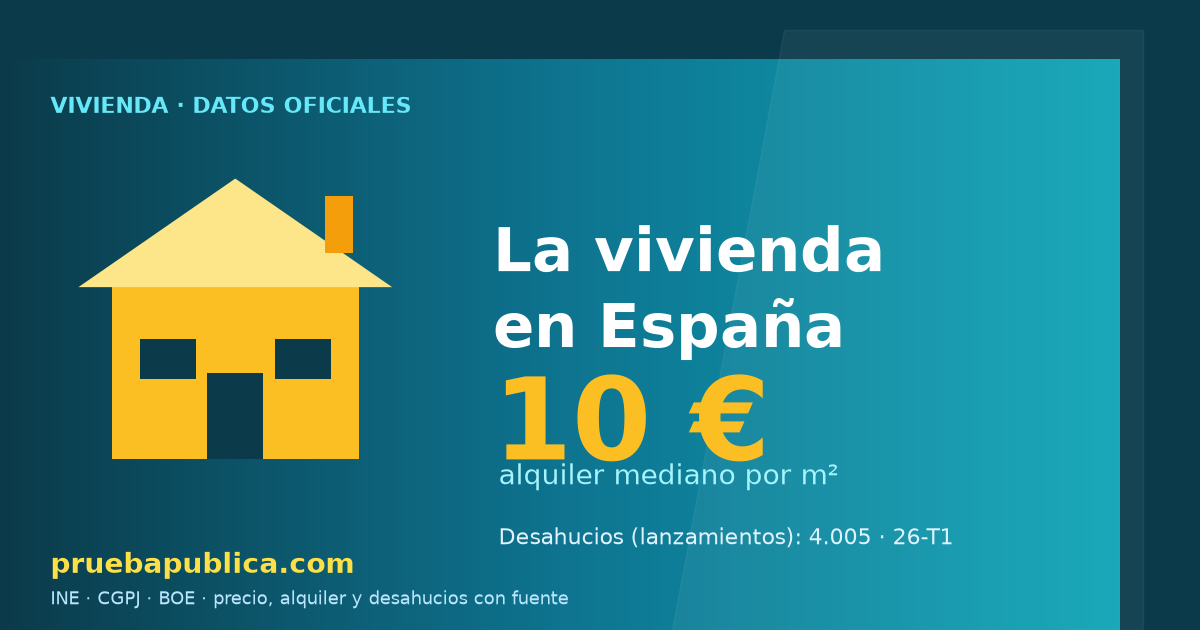
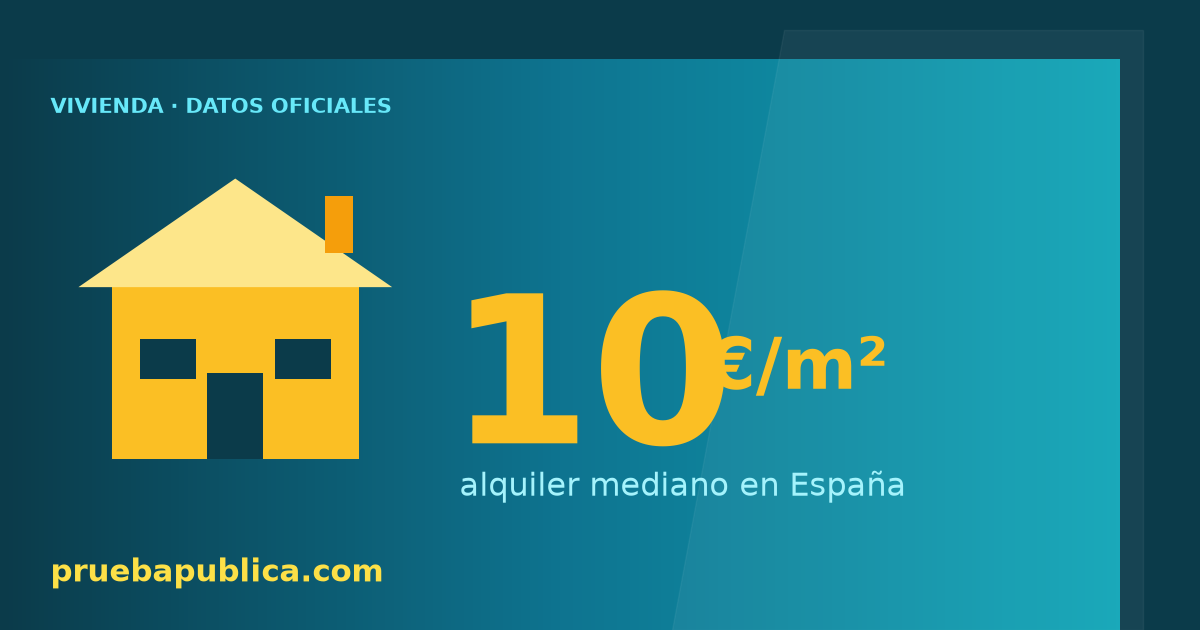
OG minimal (casa + 10 €/m2) + quitar telegram agente

diff --git a/gen/gen_og.py b/gen/gen_og.py
@@ -52,14 +52,12 @@ def build():
     ax.add_patch(Rectangle((0.29, 0.66), 0.025, 0.10, facecolor=amber2, edgecolor="none", zorder=3))
 
     # --- TEXTO ---
-    ax.text(0.045, 0.905, "VIVIENDA · DATOS OFICIALES", color="#67e8f9", fontsize=16, fontweight="bold", zorder=5)
-    ax.text(0.44, 0.72, "La vivienda\nen España", color="#ffffff", fontsize=44, fontweight="bold", va="top", zorder=5)
+    ax.text(0.045, 0.905, "VIVIENDA · DATOS OFICIALES", color="#67e8f9", fontsize=15, fontweight="bold", zorder=5)
     if med:
-        ax.text(0.44, 0.45, f"{med:.0f} €", color="#fbbf24", fontsize=82, fontweight="bold", va="top", zorder=5)
-        ax.text(0.445, 0.255, "alquiler mediano por m²", color="#a5f3fc", fontsize=20, zorder=5)
-    ax.text(0.445, 0.15, f"Desahucios (lanzamientos): {int(tot):,}".replace(",", ".") + f" · {per}", color="#e0f2fe", fontsize=16, zorder=5)
-    ax.text(0.045, 0.10, "pruebapublica.com", color="#fde047", fontsize=20, fontweight="bold", zorder=5)
-    ax.text(0.045, 0.045, "INE · CGPJ · BOE · precio, alquiler y desahucios con fuente", color="#bae6fd", fontsize=13, zorder=5)
+        ax.text(0.40, 0.60, f"{med:.0f}", color="#fbbf24", fontsize=148, fontweight="bold", va="top", zorder=5)
+        ax.text(0.63, 0.455, "€/m²", color="#fbbf24", fontsize=52, fontweight="bold", va="center", zorder=5)
+        ax.text(0.41, 0.235, "alquiler mediano en España", color="#a5f3fc", fontsize=23, zorder=5)
+    ax.text(0.045, 0.085, "pruebapublica.com", color="#fde047", fontsize=22, fontweight="bold", zorder=5)
     fig.savefig(OUT, facecolor="#0b3b4a")
     print("[og] ok | med", med, "| tot", tot, "| per", per)
 
